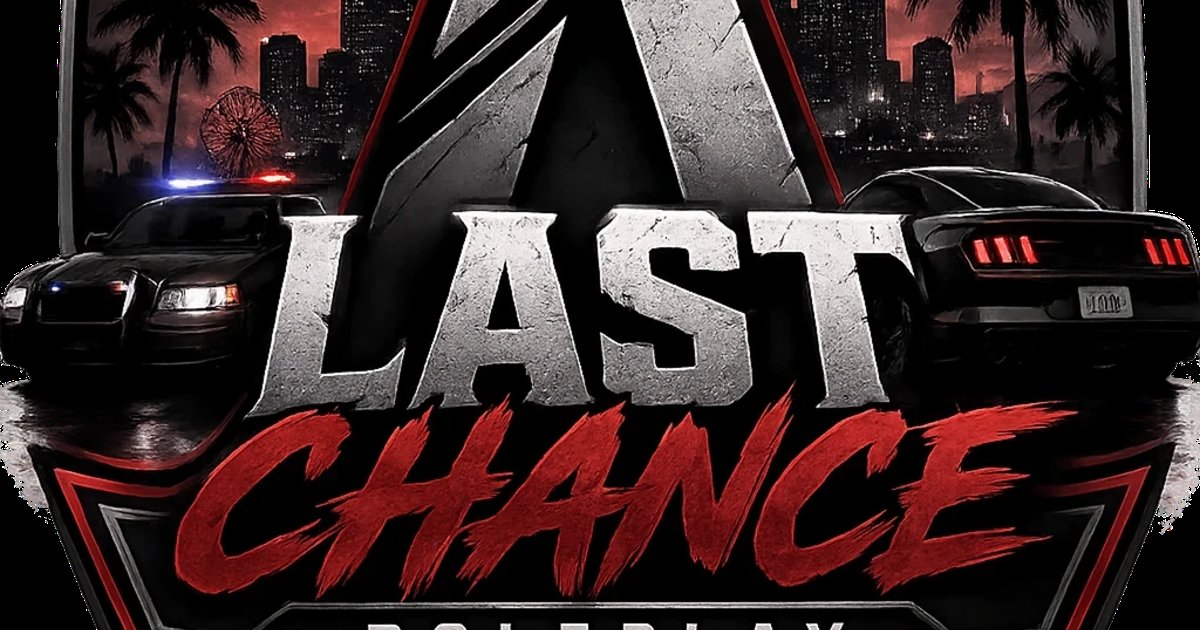
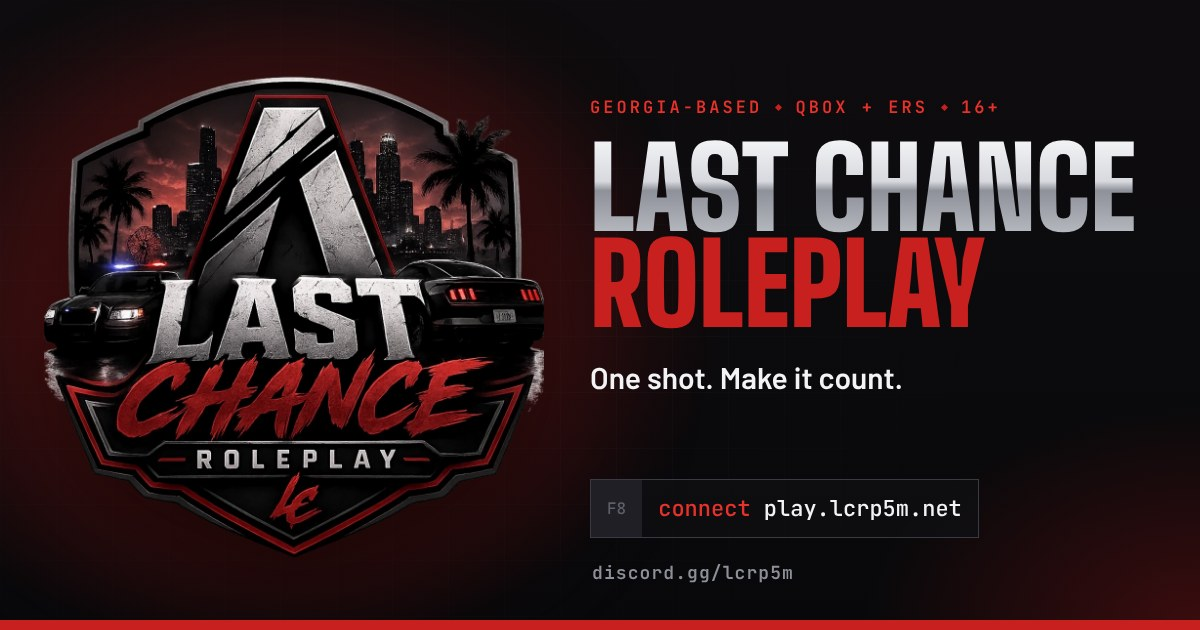
New social preview card and complete embed tags

diff --git a/src/partials/head.html b/src/partials/head.html
@@ -1,6 +1,6 @@
 <meta charset="utf-8">
 <meta name="viewport" content="width=device-width, initial-scale=1">
-<meta name="theme-color" content="#08080a">
+<meta name="theme-color" content="#c8201f">
 <link rel="icon" href="/assets/img/favicon-64.png" type="image/png">
 <link rel="apple-touch-icon" href="/assets/img/apple-touch-icon.png">
 <link rel="preconnect" href="https://fonts.googleapis.com">
@@ -8,6 +8,11 @@
 <link rel="stylesheet" href="https://fonts.googleapis.com/css2?family=Barlow:wght@400;500;600&family=Big+Shoulders+Display:wght@600;700;800;900&family=JetBrains+Mono:wght@400;500;600;700&display=swap">
 <link rel="stylesheet" href="/css/main.css">
 <meta property="og:site_name" content="Last Chance Roleplay">
-<meta property="og:image" content="https://lcrp5m.net/assets/img/og.jpg">
+<meta property="og:type" content="website">
+<meta property="og:image" content="https://lcrp5m.net/assets/img/og.jpg?v=2">
+<meta property="og:image:width" content="1200">
+<meta property="og:image:height" content="630">
+<meta property="og:image:alt" content="Last Chance Roleplay. One shot. Make it count.">
 <meta name="twitter:card" content="summary_large_image">
+<meta name="twitter:image" content="https://lcrp5m.net/assets/img/og.jpg?v=2">
 <script defer src="/js/main.js"></script>

diff --git a/src/pages/index.html b/src/pages/index.html
@@ -4,8 +4,8 @@
 <!-- @head -->
 <title>Last Chance Roleplay | Georgia FiveM Roleplay</title>
 <meta name="description" content="Last Chance Roleplay is a Georgia-based QBox and ERS FiveM server with whitelisted Clayton County Sheriff, Georgia State Patrol, South Fulton PD and Clayton County Fire & EMS.">
-<meta property="og:title" content="Last Chance Roleplay">
-<meta property="og:description" content="Georgia-based QBox and ERS roleplay. One shot. Make it count.">
+<meta property="og:title" content="Georgia-based FiveM roleplay">
+<meta property="og:description" content="A serious QBox and ERS community with four whitelisted departments and an open civilian economy. 16+. Connect at play.lcrp5m.net.">
 <link rel="canonical" href="https://lcrp5m.net/">
 </head>
 <body>
